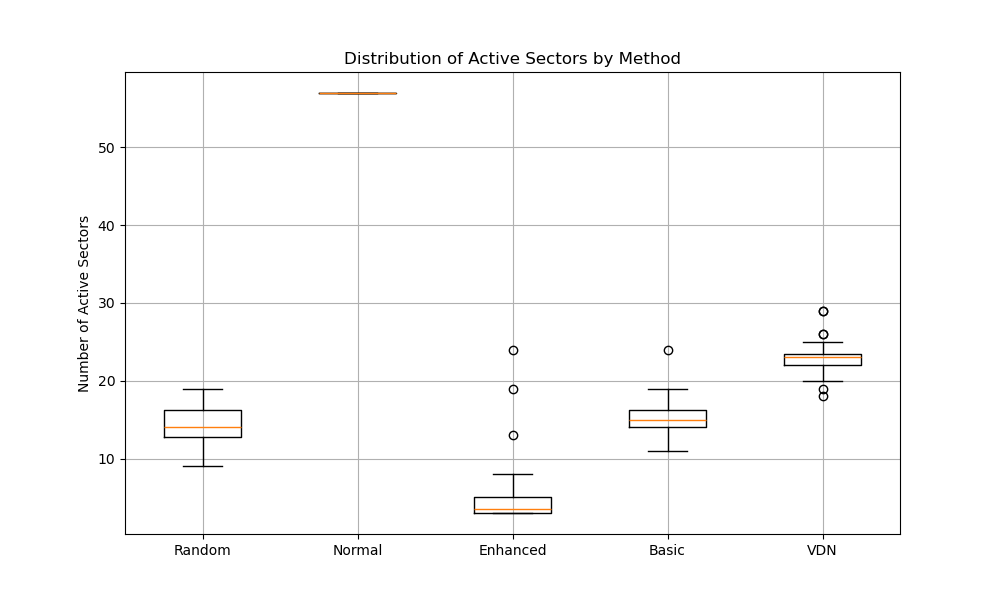
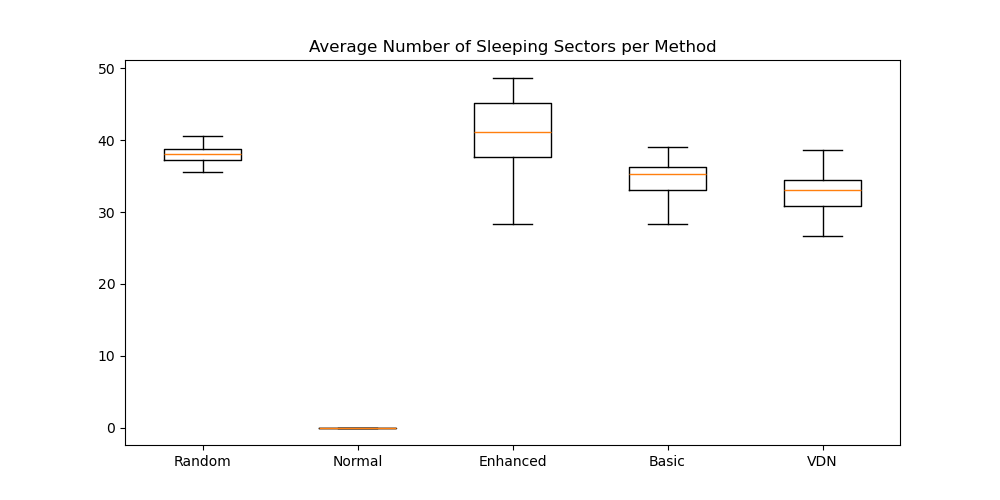
experiment suite finished

diff --git a/src/experiment_suite.py b/src/experiment_suite.py
@@ -1,35 +1,26 @@
-from simulator import Simulator
-
-import time
+import numpy as np
+import matplotlib.pyplot as plt
+import pandas as pd
 import gc
 import torch
+from simulator import Simulator
 
-import numpy as np
+# --- Simulator Classes with Step-by-Step Logging ---
 
-from geometry_helper import GeometryHelper
-from base_station_manager import BaseStationManager
-from sector_manager import SectorManager
-from device_manager import DeviceManager
-from radio_channel_model import RadioChannelModel
-from handover_manager import RSRPBasedHandoverManager
-from mobility_helper import RandomWalkMobilityHelper, LinearWalkMobilityHelper
-from network_topology_helper import HexagonalNetworkTopologyHelperWithRandomDevicePlacements, HeterogenousHexagonalNetworkTopologyHelperWithRandomDevicePlacements
-from scheduler import QueueAwareProportionalFairPhysicalResourceBlockScheduler
-from traffic_generator import TrafficGenerator, BurstyTrafficGenerator
-from sleep_mode_manager import SleepModeManager
-from simulation_kpis_handler import SimulationKPIHandler
+class BaseSimulator(Simulator):
+    def __init__(self, *args, **kwargs):
+        super().__init__(*args, **kwargs)
+        self.sleeping_history = []
+    
+    def step(self, step_number):
+        super().step(step_number)
+        # Record number of sectors in a sleep mode (> 0)
+        num_sleeping = np.count_nonzero(self.sleep_mode_manager.sector_sleep_mode_matrix)
+        self.sleeping_history.append(num_sleeping)
 
-class EnhancedSleepSimulator(Simulator):
-    def __init__(self, num_base_stations: int, num_devices: int, simulation_length_ms: int = 600_000, seed: int = 72288026) -> None:
-        super().__init__(num_base_stations = num_base_stations, num_devices = num_devices, simulation_length_ms= simulation_length_ms, seed = seed)
-
-        self.kpis = []
-
-    def reset(self, seed):
-        super().reset(seed)
-
+class EnhancedSleepSimulator(BaseSimulator):
+    # (Existing sleep_xapp logic remains the same)
     def sleep_xapp(self, curr_step):
-        # Put a random sector to sleep
         for sector in range(self.num_sectors):
             if self.sleep_mode_manager.sector_sleep_mode_matrix[sector] == 0:
                 attached_devices_indices = np.where(self.handover_manager.sector_device_association_matrix[sector,:] == 0)
@@ -41,216 +32,112 @@ class EnhancedSleepSimulator(Simulator):
                         rsrp_device_mask = (rsrp_device_slice >= -90) & (prb_utilization <= 0.9)
                         rsrp_device_mask[sector, :] = False
                         first_sector = np.argmax(np.any(rsrp_device_mask, axis=1))
-                        #print(first_sector)
-                        
                         self.handover_manager.manual_handover(first_sector, device, self.sector_manager, self.device_manager, self.radio_channel_model, self.sleep_mode_manager)
             if np.all(self.handover_manager.sector_device_association_matrix[sector, :] == 0):
-                #print(f"No devices attached to sector{sector}, putting to sleep")
-                #print(self.handover_manager.sector_device_association_matrix)
-                self.sleep_mode_manager.set_sleep_mode(
-                    sector_id=sector,
-                    sleep_mode=1,
-                    sector_manager=self.sector_manager
-                )
-    def step(self, step_number):
-        super().step(step_number)
-        self.kpis.append((
-            step_number,
-            self.kpi_handler.calculate_average_throughput_mbps(step_number),
-            self.kpi_handler.calculate_throughput_percentile(10,step_number)
-        ))
-    def run_simulation(self):
-        super().run_simulation()
+                self.sleep_mode_manager.set_sleep_mode(sector_id=sector, sleep_mode=1, sector_manager=self.sector_manager)
 
-class BasicSleepSimulator(Simulator):
-    def __init__(self, num_base_stations: int, num_devices: int, simulation_length_ms: int = 600_000, seed: int = 72288026) -> None:
-        super().__init__(num_base_stations = num_base_stations, num_devices = num_devices, simulation_length_ms= simulation_length_ms, seed = seed)
-
-    def reset(self, seed):
-        super().reset(seed)
-
+class BasicSleepSimulator(BaseSimulator):
     def sleep_xapp(self, curr_step):
-        # Put a random sector to sleep
         for sector in range(self.num_sectors):
             if np.all(self.handover_manager.sector_device_association_matrix[sector, :] == 0) and self.sleep_mode_manager.sector_sleep_mode_matrix[sector] == 0:
-                #print(f"No devices attached to sector{sector}, putting to sleep")
-                #print(self.handover_manager.sector_device_association_matrix)
-                self.sleep_mode_manager.set_sleep_mode(
-                    sector_id=sector,
-                    sleep_mode=1,
-                    sector_manager=self.sector_manager
-                )
-    def step(self, step_number):
-        super().step(step_number)
-    def run_simulation(self):
-        super().run_simulation()
+                self.sleep_mode_manager.set_sleep_mode(sector_id=sector, sleep_mode=1, sector_manager=self.sector_manager)
 
-class RandomSleepSimulator(Simulator):
-    def __init__(self, num_base_stations: int, num_devices: int, simulation_length_ms: int = 600_000, seed: int = 72288026) -> None:
-        super().__init__(num_base_stations = num_base_stations, num_devices = num_devices, simulation_length_ms= simulation_length_ms, seed = seed)
-
-    def reset(self, seed):
-        super().reset(seed)
-
+class RandomSleepSimulator(BaseSimulator):
     def sleep_xapp(self, curr_step):
-        # Put a random sector to sleep
-        self.sleep_mode_manager.set_sleep_mode(
-                    sector_id=self.rng.integers(0,self.num_sectors),
-                    sleep_mode=self.rng.integers(0,4),
-                    sector_manager=self.sector_manager
-                )
-                
-    def step(self, step_number):
-        super().step(step_number)
-    def run_simulation(self):
-        super().run_simulation()
+        self.sleep_mode_manager.set_sleep_mode(sector_id=self.rng.integers(0,self.num_sectors), sleep_mode=self.rng.integers(0,4), sector_manager=self.sector_manager)
 
-class VDNSleepSimulator(Simulator):
-    def __init__(self, num_base_stations: int, num_devices: int, simulation_length_ms: int = 600_000, seed: int = 72288026) -> None:
-        super().__init__(num_base_stations = num_base_stations, num_devices = num_devices, simulation_length_ms= simulation_length_ms, seed = seed)
+class VDNSleepSimulator(BaseSimulator):
+    def __init__(self, *args, **kwargs):
+        super().__init__(*args, **kwargs)
         self.q_net = torch.load("q_net.pth", weights_only=False, map_location=torch.device('cpu'))
-
-    def reset(self, seed):
-        super().reset(seed)
-
-    def take_observation(self, agent_id: int, simulator: Simulator) -> torch.Tensor:
-        return torch.from_numpy(np.concatenate(
-            [np.stack(
-                [
-                    simulator.radio_channel_model.received_power_dbm_matrix_per_resource_element[simulator.sector_manager.neighboring_sectors_indices_matrix[agent_id]],
-                    simulator.radio_channel_model.sinr_dbm_matrix_per_slot[simulator.sector_manager.neighboring_sectors_indices_matrix[agent_id]]
-                ],
-                axis=0
-                ).flatten(),
-                simulator.sleep_mode_manager.sector_sleep_mode_matrix[simulator.sector_manager.neighboring_sectors_indices_matrix[agent_id]]
-            ]
-        )).to(torch.float32)
 
     def sleep_xapp(self, curr_step):
         for agent in range(0,19):
             obs = self.take_observation(agent, self)
             action = int(torch.argmax(self.q_net(obs)))
-
-
             sector_id = int(agent * 3 + (action // 4))
-            sleep_mode_id = int(action % 4)
+            self.sleep_mode_manager.set_sleep_mode(sector_id=sector_id, sleep_mode=int(action % 4), sector_manager=self.sector_manager)
 
-            self.sleep_mode_manager.set_sleep_mode(
-                        sector_id=sector_id,
-                        sleep_mode=sleep_mode_id,
-                        sector_manager=self.sector_manager
-                    )
-                
+    def take_observation(self, agent_id, simulator):
+        return torch.from_numpy(np.concatenate([np.stack([simulator.radio_channel_model.received_power_dbm_matrix_per_resource_element[simulator.sector_manager.neighboring_sectors_indices_matrix[agent_id]], simulator.radio_channel_model.sinr_dbm_matrix_per_slot[simulator.sector_manager.neighboring_sectors_indices_matrix[agent_id]]], axis=0).flatten(), simulator.sleep_mode_manager.sector_sleep_mode_matrix[simulator.sector_manager.neighboring_sectors_indices_matrix[agent_id]]])).to(torch.float32)
+
+import matplotlib.pyplot as plt
+
+# --- Base Class for Tracking ---
+class BaseTrackingSimulator(Simulator):
+    def __init__(self, *args, **kwargs):
+        super().__init__(*args, **kwargs)
+        self.sleeping_history = []
+    
     def step(self, step_number):
         super().step(step_number)
-    def run_simulation(self):
-        super().run_simulation()
-"""
-if __name__ == "__main__":
-    poop=209432
-    sim = EnhancedSleepSimulator(19, 500, 500, seed=poop)
-    sim.run_simulation()
-    sim.kpi_handler.print_kpis(500)
-    print(np.count_nonzero(sim.sleep_mode_manager.sector_sleep_mode_matrix))
+        # Count non-zero sleep modes as sleeping sectors
+        num_sleeping = np.count_nonzero(self.sleep_mode_manager.sector_sleep_mode_matrix)
+        self.sleeping_history.append(num_sleeping)
 
-    sim4 = VDNSleepSimulator(19,500,500,seed=poop)
-    sim4.run_simulation()
-    sim4.kpi_handler.print_kpis(500)
-    print(np.count_nonzero(sim4.sleep_mode_manager.sector_sleep_mode_matrix))
+# Inherit simulators from BaseTrackingSimulator (keep your existing logic inside)
+class EnhancedSleepSimulator(BaseTrackingSimulator, EnhancedSleepSimulator): pass
+class BasicSleepSimulator(BaseTrackingSimulator, BasicSleepSimulator): pass
+class RandomSleepSimulator(BaseTrackingSimulator, RandomSleepSimulator): pass
+class VDNSleepSimulator(BaseTrackingSimulator, VDNSleepSimulator): pass
+class NormalSimulator(BaseTrackingSimulator, Simulator): pass
 
-    sim1 = BasicSleepSimulator(19,500,500,seed=poop)
-    sim1.run_simulation()
-    sim1.kpi_handler.print_kpis(500)
-    print(np.count_nonzero(sim1.sleep_mode_manager.sector_sleep_mode_matrix))
-
-    sim2 = Simulator(19,500,500,seed=poop)
-    sim2.run_simulation()
-    sim2.kpi_handler.print_kpis(500)
-    print(np.count_nonzero(sim2.sleep_mode_manager.sector_sleep_mode_matrix))
-
-    sim3 = RandomSleepSimulator(19,500,500,seed=poop)
-    sim3.run_simulation()
-    sim3.kpi_handler.print_kpis(500)
-    print(np.count_nonzero(sim3.sleep_mode_manager.sector_sleep_mode_matrix))
-"""
-import numpy as np
-import matplotlib.pyplot as plt
-import gc
-
-# Import your simulator classes here
-# from experiment_suite import EnhancedSleepSimulator, VDNSleepSimulator, BasicSleepSimulator, NormalSimulator, RandomSimulator
-
-def run_simulation_batch(SimulatorClass, num_simulations=20, seed_start=1000):
-    p10_throughputs = []
-    avg_throughputs = []
-    active_sector_counts = []
-
-    for i in range(num_simulations):
-        seed = seed_start + i
-        # Assuming simulator takes (num_base_stations, num_devices, simulation_length_ms, seed)
-        sim = SimulatorClass(19, 500, 500, seed=seed)
+# --- Batch Execution & Export ---
+def run_experiment(SimulatorClass, method_name, n=20):
+    all_data = []
+    for i in range(n):
+        sim = SimulatorClass(19, 500, 500, seed=1000+i)
         sim.run_simulation()
         
-        # Calculate KPIs
-        throughputs = sim.kpi_handler.calculate_throughput_mbps(500)
-        p10_throughputs.append(np.percentile(throughputs, 10))
-        avg_throughputs.append(np.mean(throughputs))
-        
-        # Calculate number of active sectors
-        active_sectors = np.count_nonzero(sim.sleep_mode_manager.sector_sleep_mode_matrix == 0)
-        active_sector_counts.append(active_sectors)
-        
-        # Clean up
-        del sim
-        gc.collect()
-        
-    return p10_throughputs, avg_throughputs, active_sector_counts
+        tp = sim.kpi_handler.calculate_throughput_mbps(500)
+        all_data.append({
+            'Method': method_name,
+            'Trial': i,
+            'P10_Throughput': np.percentile(tp, 10),
+            'Avg_Throughput': np.mean(tp),
+            'Avg_Sleeping_Sectors': np.mean(sim.sleeping_history)
+        })
+        del sim; gc.collect()
+    return all_data
 
-# Define the methods to test
 methods = {
-    "Random": RandomSleepSimulator,
-    "Normal": Simulator,
-    "Enhanced": EnhancedSleepSimulator,
-    "Basic": BasicSleepSimulator,
+    "Random": RandomSleepSimulator, 
+    "Normal": NormalSimulator, 
+    "Enhanced": EnhancedSleepSimulator, 
+    "Basic": BasicSleepSimulator, 
     "VDN": VDNSleepSimulator
 }
 
-results = {}
-for name, sim_class in methods.items():
-    print(f"Running {name} simulations...")
-    results[name] = run_simulation_batch(sim_class)
+results = []
+for name, cls in methods.items():
+    print(f"Running 20 simulations for {name}...")
+    results.extend(run_experiment(cls, name))
 
-# Plotting
-# 1. CDF Plots for Throughputs
-fig, axs = plt.subplots(1, 2, figsize=(14, 6))
+# Save to CSV
+df = pd.DataFrame(results)
+df.to_csv("simulation_results.csv", index=False)
+print("Data saved to simulation_results.csv")
 
-for name, (p10, avg, _) in results.items():
-    # Sort data for CDF
-    p10_sorted = np.sort(p10)
-    avg_sorted = np.sort(avg)
-    y = np.arange(1, len(p10_sorted) + 1) / len(p10_sorted)
-    
-    axs[0].plot(p10_sorted, y, label=f"{name} P10")
-    axs[1].plot(avg_sorted, y, label=f"{name} Avg")
+# --- Accessible Visualization ---
+fig, axs = plt.subplots(1, 2, figsize=(14, 5))
+styles = [('-', 'o'), ('--', 's'), (':', '^'), ('-.', 'D'), ('-', 'x')]
 
-axs[0].set_title("CDF of 10th Percentile Throughput")
-axs[0].set_xlabel("Throughput (Mbps)")
-axs[0].set_ylabel("Probability")
-axs[0].legend()
-axs[0].grid(True)
+for (name, cls), (ls, marker) in zip(methods.items(), styles):
+    subset = df[df['Method'] == name]
+    for i, col in enumerate(['P10_Throughput', 'Avg_Throughput']):
+        data = np.sort(subset[col].values)
+        axs[i].plot(data, np.linspace(0, 1, len(data)), label=name, ls=ls, marker=marker, markevery=2)
 
-axs[1].set_title("CDF of Average Throughput")
-axs[1].set_xlabel("Throughput (Mbps)")
-axs[1].legend()
-axs[1].grid(True)
+axs[0].set_title("CDF: 10th Percentile Throughput"); axs[1].set_title("CDF: Average Throughput")
+[ax.legend() or ax.grid(True) for ax in axs]
+
+plt.figure(figsize=(10, 5))
+bp = plt.boxplot([df[df['Method']==m]['Avg_Sleeping_Sectors'] for m in methods.keys()], 
+                 labels=methods.keys(), patch_artist=True)
+colors = ['#E69F00', '#56B4E9', '#009E73', '#F0E442', '#0072B2']
+for patch, color in zip(bp['boxes'], colors):
+    patch.set_facecolor(color)
+    patch.set_hatch('//')
+
+plt.title("Average Number of Sleeping Sectors per Method")
 plt.show()
-
-# 2. Box Plot for Active Sectors
-plt.figure(figsize=(10, 6))
-data_to_plot = [results[name][2] for name in methods.keys()]
-plt.boxplot(data_to_plot, labels=methods.keys())
-plt.title("Distribution of Active Sectors by Method")
-plt.ylabel("Number of Active Sectors")
-plt.grid(True)
-plt.show()
-    

diff --git a/src/plot_training.py b/src/plot_training.py
@@ -1,7 +1,7 @@
 import pandas as pd
 import matplotlib.pyplot as plt
 
-def plot_training_results(csv_file='training_log.csv', window_size=10):
+def plot_training_results(csv_file='training_log.csv', window_size=50):
     # Load the data
     df = pd.read_csv(csv_file)
     